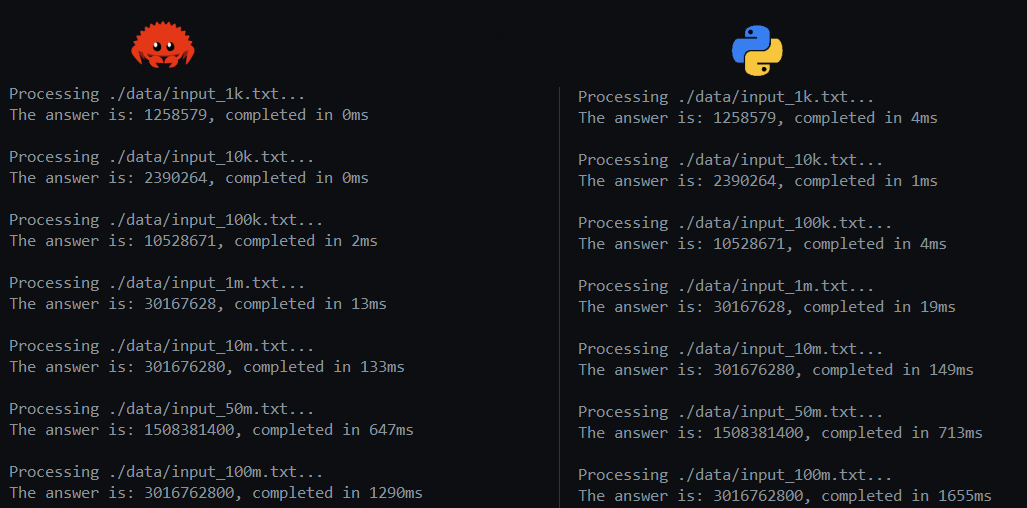
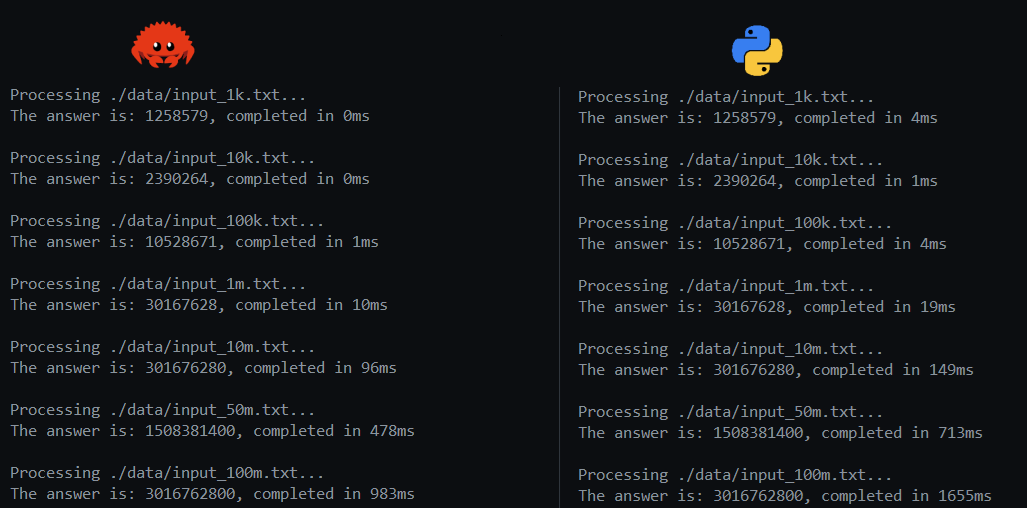
Added final optimisations

diff --git a/_site/2025/advent-of-code-day-1-rust-vs-python/index.html b/_site/2025/advent-of-code-day-1-rust-vs-python/index.html
@@ -52,7 +52,7 @@
   <meta name="msapplication-TileImage" content="/images/favicons/mstile-144x144.png">
   <meta name="theme-color" content="#ffffff">
   
-  <link rel="stylesheet" href="/css/main.css?1738034017309497400">
+  <link rel="stylesheet" href="/css/main.css?1738201398194736700">
   <link rel="canonical" href="http://localhost:4000/2025/advent-of-code-day-1-rust-vs-python/">
   <link rel="alternate" type="application/rss+xml" title="Peculiar Coding Endeavours" href="/feed.xml">
 </head>
@@ -763,39 +763,35 @@
 
 <p>We’re being all efficient with our parsing of lines, looking at the individual bytes and avoiding calling parse functions. But we’re still splitting on \n… Additionally, we’re testing every line to see if it’s empty. Since we’ve been relying on some assumptions regarding our input data, let’s continue that trend and optimise these last few issues as well. After all, splitting the entire file on these returns, and testing if each line is empty, will be costly, and we should try to avoid it or perform these steps more efficiently.</p>
 
-<p>We’ll use the memchr crate to help us find occurrences of the \n in each line. It leverages low-level optimizations, such as SIMD instructions to speed up searches, making it significantly faster than a straightforward byte-by-byte iteration in many cases. Besides that, instead of using a for loop, we’ll use a while loop and a position index to read the file in byte chunks. We’ll start at position 0, look for the first occurrence of \n in the memory-mapped file, and process the chunk of bytes that we get. We’ll then update the position counter, and repeat until we processed the entire memory-map.</p>
+<p>We make the assumption that each line</p>
+<ul>
+  <li>is 13 bytes long</li>
+  <li>consists of 5 digits, a space, another 5 digits, and a \n to get to the next line</li>
+</ul>
+
+<p>Let’s really use that to avoid all splitting whatsoever. We’ll use a while loop and a start index to read the file in byte chunks. We’ll start at position 0, take the next 13 bytes in the memory-mapped file, and process the chunk of bytes that we get. We’ll then update the start index, and repeat until we processed the entire memory-map.</p>
 
 <div class="language-rust highlighter-rouge"><div class="highlight"><pre class="highlight"><code><span class="k">fn</span> <span class="nf">compute_distance</span><span class="p">(</span><span class="n">file_path</span><span class="p">:</span> <span class="o">&amp;</span><span class="nb">str</span><span class="p">)</span> <span class="k">-&gt;</span> <span class="n">Result</span><span class="o">&lt;</span><span class="nb">i64</span><span class="o">&gt;</span> <span class="p">{</span>
     <span class="c">// Define the range for 5-digit numbers</span>
     <span class="k">const</span> <span class="n">MIN_VAL</span><span class="p">:</span> <span class="nb">i64</span> <span class="o">=</span> <span class="mi">10_000</span><span class="p">;</span>
     <span class="k">const</span> <span class="n">MAX_VAL</span><span class="p">:</span> <span class="nb">i64</span> <span class="o">=</span> <span class="mi">99_999</span><span class="p">;</span>
     <span class="k">const</span> <span class="n">RANGE</span><span class="p">:</span> <span class="nb">usize</span> <span class="o">=</span> <span class="p">(</span><span class="n">MAX_VAL</span> <span class="o">-</span> <span class="n">MIN_VAL</span> <span class="o">+</span> <span class="mi">1</span><span class="p">)</span> <span class="k">as</span> <span class="nb">usize</span><span class="p">;</span>
-
+    
     <span class="c">// Initialize buckets</span>
     <span class="k">let</span> <span class="k">mut</span> <span class="n">buckets1</span> <span class="o">=</span> <span class="nd">vec!</span><span class="p">[</span><span class="mi">0i32</span><span class="p">;</span> <span class="n">RANGE</span><span class="p">];</span>
     <span class="k">let</span> <span class="k">mut</span> <span class="n">buckets2</span> <span class="o">=</span> <span class="nd">vec!</span><span class="p">[</span><span class="mi">0i32</span><span class="p">;</span> <span class="n">RANGE</span><span class="p">];</span>
-
+    
     <span class="c">// Open file and memory-map it</span>
     <span class="k">let</span> <span class="n">file</span> <span class="o">=</span> <span class="nn">File</span><span class="p">::</span><span class="nf">open</span><span class="p">(</span><span class="n">file_path</span><span class="p">)</span><span class="nf">.context</span><span class="p">(</span><span class="s">"Failed to open file"</span><span class="p">)</span><span class="o">?</span><span class="p">;</span>
     <span class="k">let</span> <span class="n">mmap</span> <span class="o">=</span> <span class="k">unsafe</span> <span class="p">{</span> <span class="nn">Mmap</span><span class="p">::</span><span class="nf">map</span><span class="p">(</span><span class="o">&amp;</span><span class="n">file</span><span class="p">)</span><span class="nf">.context</span><span class="p">(</span><span class="s">"Failed to memory-map file"</span><span class="p">)</span><span class="o">?</span> <span class="p">};</span>
-
-    <span class="c">// Chunk the file by looking for the \n</span>
-    <span class="k">let</span> <span class="k">mut</span> <span class="n">pos</span> <span class="o">=</span> <span class="mi">0</span><span class="p">;</span>
-    <span class="k">while</span> <span class="n">pos</span> <span class="o">&lt;</span> <span class="n">mmap</span><span class="nf">.len</span><span class="p">()</span> <span class="p">{</span>
-        <span class="k">let</span> <span class="n">end</span> <span class="o">=</span> <span class="k">match</span> <span class="nf">memchr</span><span class="p">(</span><span class="n">b</span><span class="sc">'\n'</span><span class="p">,</span> <span class="o">&amp;</span><span class="n">mmap</span><span class="p">[</span><span class="n">pos</span><span class="o">..</span><span class="p">])</span> <span class="p">{</span>
-            <span class="nf">Some</span><span class="p">(</span><span class="n">p</span><span class="p">)</span> <span class="k">=&gt;</span> <span class="n">pos</span> <span class="o">+</span> <span class="n">p</span><span class="p">,</span>
-            <span class="nb">None</span> <span class="k">=&gt;</span> <span class="n">mmap</span><span class="nf">.len</span><span class="p">(),</span>
-        <span class="p">};</span>
-
-        <span class="k">let</span> <span class="n">line</span> <span class="o">=</span> <span class="o">&amp;</span><span class="n">mmap</span><span class="p">[</span><span class="n">pos</span><span class="o">..</span><span class="n">end</span> <span class="o">-</span> <span class="mi">1</span><span class="p">];</span>
-        <span class="n">pos</span> <span class="o">=</span> <span class="n">end</span> <span class="o">+</span> <span class="mi">1</span><span class="p">;</span>
-
-        <span class="k">if</span> <span class="n">line</span><span class="nf">.len</span><span class="p">()</span> <span class="o">&gt;=</span> <span class="mi">11</span> <span class="p">{</span>
-            <span class="k">if</span> <span class="k">let</span> <span class="nf">Some</span><span class="p">((</span><span class="n">num1</span><span class="p">,</span> <span class="n">num2</span><span class="p">))</span> <span class="o">=</span> <span class="nf">parse_line</span><span class="p">(</span><span class="n">line</span><span class="p">)</span> <span class="p">{</span>
-                <span class="k">unsafe</span> <span class="p">{</span>
-                    <span class="o">*</span><span class="n">buckets1</span><span class="nf">.get_unchecked_mut</span><span class="p">((</span><span class="n">num1</span> <span class="o">-</span> <span class="n">MIN_VAL</span><span class="p">)</span> <span class="k">as</span> <span class="nb">usize</span><span class="p">)</span> <span class="o">+=</span> <span class="mi">1</span><span class="p">;</span>
-                    <span class="o">*</span><span class="n">buckets2</span><span class="nf">.get_unchecked_mut</span><span class="p">((</span><span class="n">num2</span> <span class="o">-</span> <span class="n">MIN_VAL</span><span class="p">)</span> <span class="k">as</span> <span class="nb">usize</span><span class="p">)</span> <span class="o">+=</span> <span class="mi">1</span><span class="p">;</span>
-                <span class="p">}</span>
+    
+    <span class="c">// Since we know the exact length in bytes of each line, we can simply step through it</span>
+    <span class="k">const</span> <span class="n">STEP</span><span class="p">:</span> <span class="nb">usize</span> <span class="o">=</span> <span class="mi">13</span><span class="p">;</span>
+    <span class="k">for</span> <span class="n">line</span> <span class="n">in</span> <span class="n">mmap</span><span class="nf">.chunks_exact</span><span class="p">(</span><span class="n">STEP</span><span class="p">)</span> <span class="p">{</span>
+        <span class="k">if</span> <span class="k">let</span> <span class="nf">Some</span><span class="p">((</span><span class="n">num1</span><span class="p">,</span> <span class="n">num2</span><span class="p">))</span> <span class="o">=</span> <span class="nf">parse_line</span><span class="p">(</span><span class="n">line</span><span class="p">)</span> <span class="p">{</span>
+            <span class="k">unsafe</span> <span class="p">{</span>
+                <span class="o">*</span><span class="n">buckets1</span><span class="nf">.get_unchecked_mut</span><span class="p">((</span><span class="n">num1</span> <span class="o">-</span> <span class="n">MIN_VAL</span><span class="p">)</span> <span class="k">as</span> <span class="nb">usize</span><span class="p">)</span> <span class="o">+=</span> <span class="mi">1</span><span class="p">;</span>
+                <span class="o">*</span><span class="n">buckets2</span><span class="nf">.get_unchecked_mut</span><span class="p">((</span><span class="n">num2</span> <span class="o">-</span> <span class="n">MIN_VAL</span><span class="p">)</span> <span class="k">as</span> <span class="nb">usize</span><span class="p">)</span> <span class="o">+=</span> <span class="mi">1</span><span class="p">;</span>
             <span class="p">}</span>
         <span class="p">}</span>
     <span class="p">}</span>
@@ -813,9 +809,8 @@
                 <span class="k">break</span><span class="p">;</span>
             <span class="p">}</span>
 
-            <span class="k">let</span> <span class="n">count</span> <span class="o">=</span> <span class="nn">std</span><span class="p">::</span><span class="nn">cmp</span><span class="p">::</span><span class="nf">min</span><span class="p">(</span><span class="n">buckets1</span><span class="p">[</span><span class="n">i</span><span class="p">],</span> <span class="n">buckets2</span><span class="p">[</span><span class="n">j</span><span class="p">]);</span>
-            <span class="k">let</span> <span class="n">diff</span> <span class="o">=</span> <span class="p">(</span><span class="n">i</span> <span class="k">as</span> <span class="nb">i64</span> <span class="o">-</span> <span class="n">j</span> <span class="k">as</span> <span class="nb">i64</span><span class="p">)</span><span class="nf">.abs</span><span class="p">();</span>
-            <span class="n">total_distance</span> <span class="o">+=</span> <span class="n">count</span> <span class="k">as</span> <span class="nb">i64</span> <span class="o">*</span> <span class="n">diff</span><span class="p">;</span>
+            <span class="k">let</span> <span class="n">count</span> <span class="o">=</span> <span class="n">buckets1</span><span class="p">[</span><span class="n">i</span><span class="p">]</span><span class="nf">.min</span><span class="p">(</span><span class="n">buckets2</span><span class="p">[</span><span class="n">j</span><span class="p">]);</span>
+            <span class="n">total_distance</span> <span class="o">+=</span> <span class="n">count</span> <span class="k">as</span> <span class="nb">i64</span> <span class="o">*</span> <span class="p">(</span><span class="n">i</span> <span class="k">as</span> <span class="nb">i64</span> <span class="o">-</span> <span class="n">j</span> <span class="k">as</span> <span class="nb">i64</span><span class="p">)</span><span class="nf">.abs</span><span class="p">();</span>
             <span class="n">buckets1</span><span class="p">[</span><span class="n">i</span><span class="p">]</span> <span class="o">-=</span> <span class="n">count</span><span class="p">;</span>
             <span class="n">buckets2</span><span class="p">[</span><span class="n">j</span><span class="p">]</span> <span class="o">-=</span> <span class="n">count</span><span class="p">;</span>
         <span class="p">}</span>
@@ -825,10 +820,10 @@
 <span class="p">}</span>
 </code></pre></div></div>
 
-<p>Let’s also change the way we parse lines. Nothing overly crazy, however: we’ll remove the use of SIMD from handling of the byte arrays, and we’ll instead sprinkle some unsafe code in there. Again, we’re really relying on the assumptions we placed on the data, having chunks of 11 bytes. We will, however, add a check in there to see if the byte at index 5 is indead a space. For readability, we moved the parsing bit of our logic to another function. We’ll annotate it with an inline(always) attribute, so that the compiler always inlines the code instead of having millions of calls to a separate function. Some experimentation showed that these changes also shaved of some tens of milliseconds on the largest files.</p>
+<p>Let’s also change the way we parse lines. Nothing overly crazy, however: we’ll remove the use of SIMD from handling of the byte arrays, and we’ll instead sprinkle some unsafe code in there. Again, we’re really relying on the assumptions we placed on the data, having chunks of 13 bytes. We will, however, add a check in there to see if the byte at index 5 is indead a space. For readability, we moved the parsing bit of our logic to another function. We’ll annotate it with an inline(always) attribute, so that the compiler always inlines the code instead of having millions of calls to a separate function. Some experimentation showed that these changes also shaved of some tens of milliseconds on the largest files.</p>
 
 <div class="language-rust highlighter-rouge"><div class="highlight"><pre class="highlight"><code><span class="k">fn</span> <span class="nf">parse_line</span><span class="p">(</span><span class="n">bytes</span><span class="p">:</span> <span class="o">&amp;</span><span class="p">[</span><span class="nb">u8</span><span class="p">])</span> <span class="k">-&gt;</span> <span class="nb">Option</span><span class="o">&lt;</span><span class="p">(</span><span class="nb">i64</span><span class="p">,</span> <span class="nb">i64</span><span class="p">)</span><span class="o">&gt;</span> <span class="p">{</span>
-    <span class="k">if</span> <span class="n">bytes</span><span class="nf">.len</span><span class="p">()</span> <span class="o">&lt;</span> <span class="mi">11</span> <span class="p">||</span> <span class="k">unsafe</span> <span class="p">{</span> <span class="o">*</span><span class="n">bytes</span><span class="nf">.get_unchecked</span><span class="p">(</span><span class="mi">5</span><span class="p">)</span> <span class="p">}</span> <span class="o">!=</span> <span class="n">b</span><span class="sc">' '</span> <span class="p">{</span>
+    <span class="k">if</span> <span class="n">bytes</span><span class="nf">.len</span><span class="p">()</span> <span class="o">&lt;</span> <span class="mi">13</span> <span class="p">||</span> <span class="k">unsafe</span> <span class="p">{</span> <span class="o">*</span><span class="n">bytes</span><span class="nf">.get_unchecked</span><span class="p">(</span><span class="mi">5</span><span class="p">)</span> <span class="p">}</span> <span class="o">!=</span> <span class="n">b</span><span class="sc">' '</span> <span class="p">{</span>
         <span class="k">return</span> <span class="nb">None</span><span class="p">;</span>
     <span class="p">}</span>
 
@@ -856,7 +851,7 @@
 <span class="p">}</span>
 </code></pre></div></div>
 
-<p>And this results in the final set of results I will show you. I’m glad to see we’re shaving off another few 100ms from the 100M entry file. On a relative scale, that’s about 20% of a speed increase, which is pretty amazing. These changes bring the measurements within a few 10’s of ms of just reading the file without performing processing at all, so I’m going to leave it at that. However, I hope some of you can completely leave my Rust implementation in the dust and introduce massive speedups (maybe using the GPU, even more interesting and innovative algorithms or approaches, …). Again, if so, definitely contact me; I always want to learn. For the time being, on my machine, loading the file and processing 100 million entries takes about 1.3 seconds, which is fine by me. Thanks for reading through the entire article; I hope it sparked your interest!</p>
+<p>And this results in the final set of results I will show you. I’m glad to see we’re shaving off close to 40% of the time spent, which is pretty amazing. However, I hope some of you can completely leave my Rust implementation in the dust and introduce massive speedups (maybe using the GPU, even more interesting and innovative algorithms or approaches, …). Again, if so, definitely contact me; I always want to learn. For the time being, on my machine, loading the file and processing 100 million entries takes about 950 milliseconds, which is fine by me. Thanks for reading through the entire article; I hope it sparked your interest!</p>
 
 <p><img src="http://localhost:4000/assets/aoc_rust_python/bucketsort_final.png" alt="bucketsort" /></p>
 
@@ -889,7 +884,7 @@
 </footer>
 
 <script type="text/javascript" src="https://ajax.googleapis.com/ajax/libs/jquery/1.11.3/jquery.min.js"></script>
-<script type="text/javascript" src="/js/main.js?1738034017309497400"></script>
+<script type="text/javascript" src="/js/main.js?1738201398194736700"></script>
 
 
     </div>

diff --git a/_site/2023/traveling-salesman/index.html b/_site/2023/traveling-salesman/index.html
@@ -52,7 +52,7 @@
   <meta name="msapplication-TileImage" content="/images/favicons/mstile-144x144.png">
   <meta name="theme-color" content="#ffffff">
   
-  <link rel="stylesheet" href="/css/main.css?1738034017309497400">
+  <link rel="stylesheet" href="/css/main.css?1738201398194736700">
   <link rel="canonical" href="http://localhost:4000/2023/traveling-salesman/">
   <link rel="alternate" type="application/rss+xml" title="Peculiar Coding Endeavours" href="/feed.xml">
 </head>
@@ -1335,7 +1335,7 @@ and use <a href="https://bevyengine.org/" target="_blank">Bevy</a>, since that w
 </footer>
 
 <script type="text/javascript" src="https://ajax.googleapis.com/ajax/libs/jquery/1.11.3/jquery.min.js"></script>
-<script type="text/javascript" src="/js/main.js?1738034017309497400"></script>
+<script type="text/javascript" src="/js/main.js?1738201398194736700"></script>
 
 
     </div>

diff --git a/_site/2019/mlp_vs_cnn/index.html b/_site/2019/mlp_vs_cnn/index.html
@@ -52,7 +52,7 @@
   <meta name="msapplication-TileImage" content="/images/favicons/mstile-144x144.png">
   <meta name="theme-color" content="#ffffff">
   
-  <link rel="stylesheet" href="/css/main.css?1738034017309497400">
+  <link rel="stylesheet" href="/css/main.css?1738201398194736700">
   <link rel="canonical" href="http://localhost:4000/2019/mlp_vs_cnn/">
   <link rel="alternate" type="application/rss+xml" title="Peculiar Coding Endeavours" href="/feed.xml">
 </head>
@@ -929,7 +929,7 @@ Epoch 00225: val_loss did not improve from 0.39229
 </footer>
 
 <script type="text/javascript" src="https://ajax.googleapis.com/ajax/libs/jquery/1.11.3/jquery.min.js"></script>
-<script type="text/javascript" src="/js/main.js?1738034017309497400"></script>
+<script type="text/javascript" src="/js/main.js?1738201398194736700"></script>
 
 
     </div>

diff --git a/_site/2023/game-of-life/index.html b/_site/2023/game-of-life/index.html
@@ -52,7 +52,7 @@
   <meta name="msapplication-TileImage" content="/images/favicons/mstile-144x144.png">
   <meta name="theme-color" content="#ffffff">
   
-  <link rel="stylesheet" href="/css/main.css?1738034017309497400">
+  <link rel="stylesheet" href="/css/main.css?1738201398194736700">
   <link rel="canonical" href="http://localhost:4000/2023/game-of-life/">
   <link rel="alternate" type="application/rss+xml" title="Peculiar Coding Endeavours" href="/feed.xml">
 </head>
@@ -596,7 +596,7 @@ Some conclusions here:</p>
 </footer>
 
 <script type="text/javascript" src="https://ajax.googleapis.com/ajax/libs/jquery/1.11.3/jquery.min.js"></script>
-<script type="text/javascript" src="/js/main.js?1738034017309497400"></script>
+<script type="text/javascript" src="/js/main.js?1738201398194736700"></script>
 
 
     </div>

diff --git a/_site/2022/how-ai-transforming-se/index.html b/_site/2022/how-ai-transforming-se/index.html
@@ -52,7 +52,7 @@
   <meta name="msapplication-TileImage" content="/images/favicons/mstile-144x144.png">
   <meta name="theme-color" content="#ffffff">
   
-  <link rel="stylesheet" href="/css/main.css?1738034017309497400">
+  <link rel="stylesheet" href="/css/main.css?1738201398194736700">
   <link rel="canonical" href="http://localhost:4000/2022/how-ai-transforming-se/">
   <link rel="alternate" type="application/rss+xml" title="Peculiar Coding Endeavours" href="/feed.xml">
 </head>
@@ -257,7 +257,7 @@
 </footer>
 
 <script type="text/javascript" src="https://ajax.googleapis.com/ajax/libs/jquery/1.11.3/jquery.min.js"></script>
-<script type="text/javascript" src="/js/main.js?1738034017309497400"></script>
+<script type="text/javascript" src="/js/main.js?1738201398194736700"></script>
 
 
     </div>

diff --git a/_site/2020/through-the-trees/index.html b/_site/2020/through-the-trees/index.html
@@ -61,7 +61,7 @@
   <meta name="msapplication-TileImage" content="/images/favicons/mstile-144x144.png">
   <meta name="theme-color" content="#ffffff">
   
-  <link rel="stylesheet" href="/css/main.css?1738034017309497400">
+  <link rel="stylesheet" href="/css/main.css?1738201398194736700">
   <link rel="canonical" href="http://localhost:4000/2020/through-the-trees/">
   <link rel="alternate" type="application/rss+xml" title="Peculiar Coding Endeavours" href="/feed.xml">
 </head>
@@ -529,7 +529,7 @@
 </footer>
 
 <script type="text/javascript" src="https://ajax.googleapis.com/ajax/libs/jquery/1.11.3/jquery.min.js"></script>
-<script type="text/javascript" src="/js/main.js?1738034017309497400"></script>
+<script type="text/javascript" src="/js/main.js?1738201398194736700"></script>
 
 
     </div>

diff --git a/_site/2022/prime-skills/index.html b/_site/2022/prime-skills/index.html
@@ -52,7 +52,7 @@
   <meta name="msapplication-TileImage" content="/images/favicons/mstile-144x144.png">
   <meta name="theme-color" content="#ffffff">
   
-  <link rel="stylesheet" href="/css/main.css?1738034017309497400">
+  <link rel="stylesheet" href="/css/main.css?1738201398194736700">
   <link rel="canonical" href="http://localhost:4000/2022/prime-skills/">
   <link rel="alternate" type="application/rss+xml" title="Peculiar Coding Endeavours" href="/feed.xml">
 </head>
@@ -525,7 +525,7 @@
 </footer>
 
 <script type="text/javascript" src="https://ajax.googleapis.com/ajax/libs/jquery/1.11.3/jquery.min.js"></script>
-<script type="text/javascript" src="/js/main.js?1738034017309497400"></script>
+<script type="text/javascript" src="/js/main.js?1738201398194736700"></script>
 
 
     </div>

diff --git a/_site/categories/index.html b/_site/categories/index.html
@@ -48,7 +48,7 @@
   <meta name="msapplication-TileImage" content="/images/favicons/mstile-144x144.png">
   <meta name="theme-color" content="#ffffff">
   
-  <link rel="stylesheet" href="/css/main.css?1738034017309497400">
+  <link rel="stylesheet" href="/css/main.css?1738201398194736700">
   <link rel="canonical" href="http://localhost:4000/categories/">
   <link rel="alternate" type="application/rss+xml" title="Peculiar Coding Endeavours" href="/feed.xml">
 </head>
@@ -461,7 +461,7 @@
 </footer>
 
 <script type="text/javascript" src="https://ajax.googleapis.com/ajax/libs/jquery/1.11.3/jquery.min.js"></script>
-<script type="text/javascript" src="/js/main.js?1738034017309497400"></script>
+<script type="text/javascript" src="/js/main.js?1738201398194736700"></script>
 
 
     </div>

diff --git a/_site/tags/index.html b/_site/tags/index.html
@@ -46,7 +46,7 @@
   <meta name="msapplication-TileImage" content="/images/favicons/mstile-144x144.png">
   <meta name="theme-color" content="#ffffff">
   
-  <link rel="stylesheet" href="/css/main.css?1738034017309497400">
+  <link rel="stylesheet" href="/css/main.css?1738201398194736700">
   <link rel="canonical" href="http://localhost:4000/tags/">
   <link rel="alternate" type="application/rss+xml" title="Peculiar Coding Endeavours" href="/feed.xml">
 </head>
@@ -1051,7 +1051,7 @@
 </footer>
 
 <script type="text/javascript" src="https://ajax.googleapis.com/ajax/libs/jquery/1.11.3/jquery.min.js"></script>
-<script type="text/javascript" src="/js/main.js?1738034017309497400"></script>
+<script type="text/javascript" src="/js/main.js?1738201398194736700"></script>
 
 
     </div>

diff --git a/_site/index.html b/_site/index.html
@@ -48,7 +48,7 @@
   <meta name="msapplication-TileImage" content="/images/favicons/mstile-144x144.png">
   <meta name="theme-color" content="#ffffff">
   
-  <link rel="stylesheet" href="/css/main.css?1738034017309497400">
+  <link rel="stylesheet" href="/css/main.css?1738201398194736700">
   <link rel="canonical" href="http://localhost:4000/">
   <link rel="alternate" type="application/rss+xml" title="Peculiar Coding Endeavours" href="/feed.xml">
 </head>
@@ -328,7 +328,7 @@
 </footer>
 
 <script type="text/javascript" src="https://ajax.googleapis.com/ajax/libs/jquery/1.11.3/jquery.min.js"></script>
-<script type="text/javascript" src="/js/main.js?1738034017309497400"></script>
+<script type="text/javascript" src="/js/main.js?1738201398194736700"></script>
 
 
     </div>
